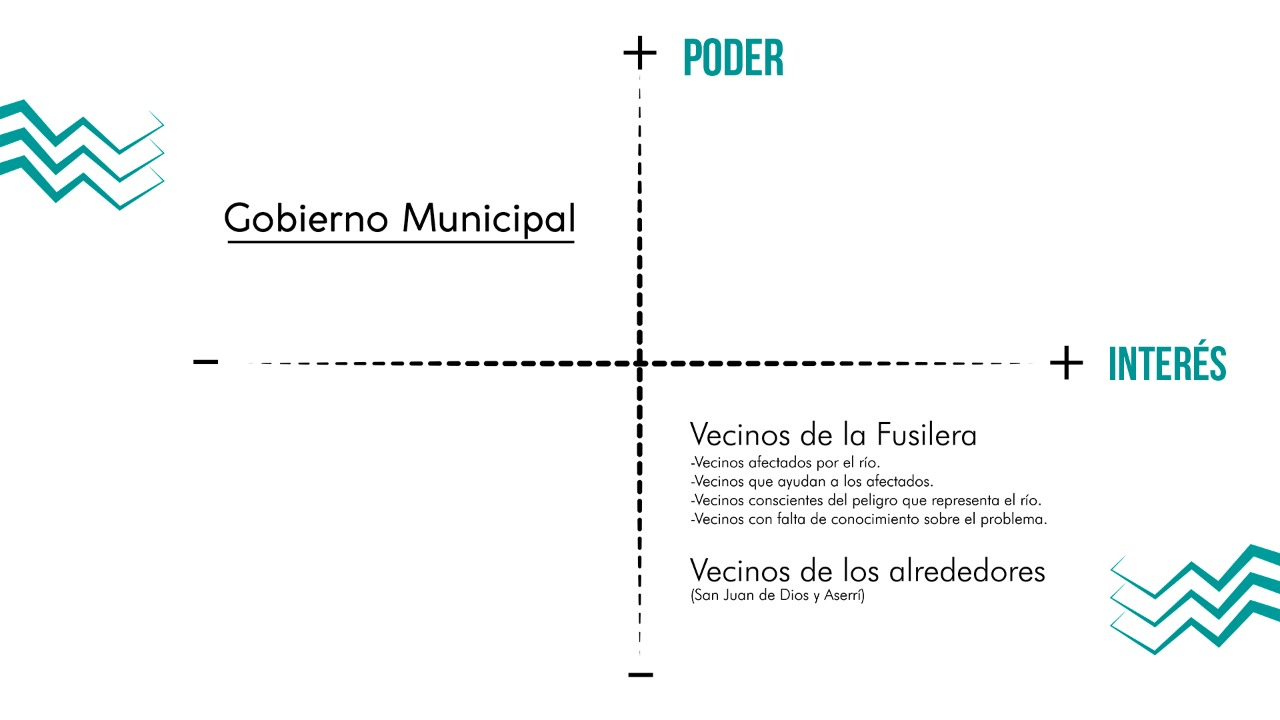
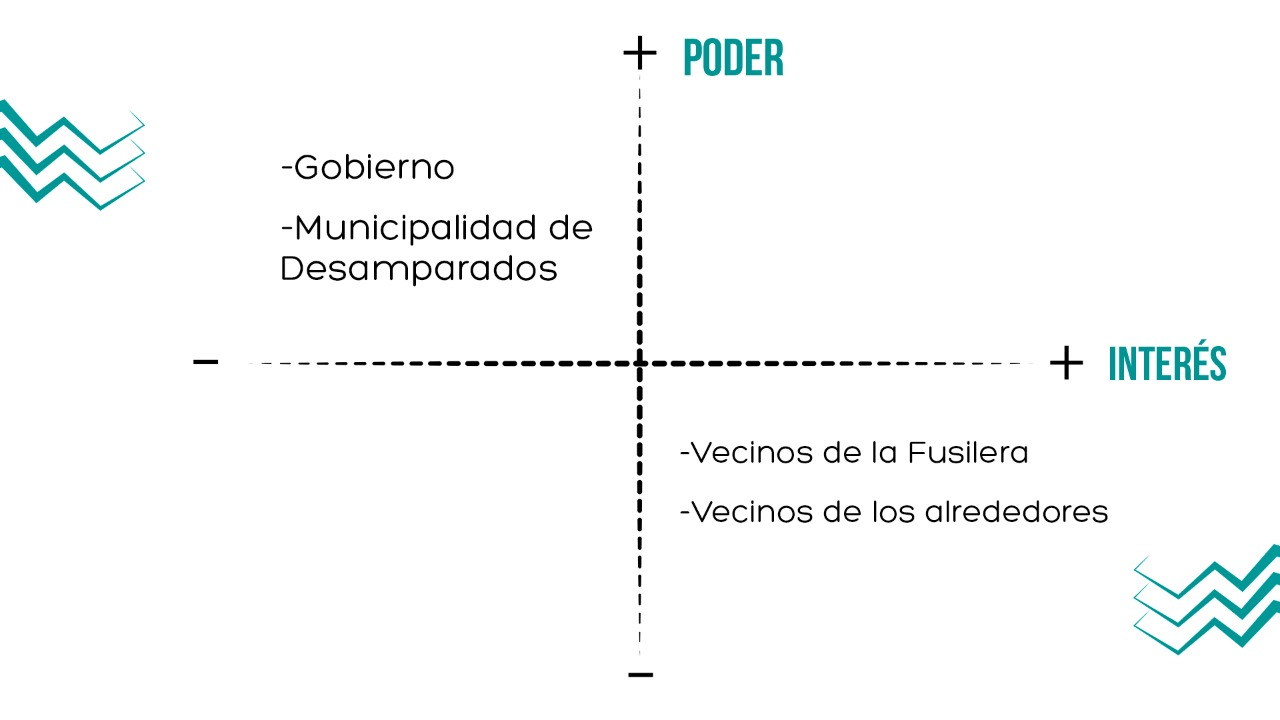
version 1.4

diff --git a/index.html b/index.html
@@ -122,8 +122,8 @@
 					<p class="post__text">Una vez que definimos el Persona Map, construimos el Mapa de Audiencia, que representa a los actores presentes en la problemática</p>
 	
 					<ul>
-						<li>En el cuadrante __________, tenemos a ________, que representa </li>
-						<li>En el cuadrante  __________, tenemos a  __________, que representa</li>
+						<li>En el cuadrante superior izquierdo, tenemos a el gobierno y la minicipalidad, que tienen el poder pero aunque parece que tienen interés no se ve demostrado, solo cuando se acercan las elecciones los candidatos o partidos politicos se acercan a estas zonas para llamar la atencion.</li>
+						<li>En el cuadrante inferior derecho, tenemos a  los vecinos de la Fusilera y a los vecinos de los alrededores que tienen tódo el interés pero no tienen el poder economico ni politico</li>
 					</ul>
 	
 				</div>
@@ -335,7 +335,7 @@
 
 		<!--project-->
 		<div class="project hide clearfix">
-
+			
 		</div>
 		<!--end project-->
 	</div>

diff --git a/sass/components/_menu.scss b/sass/components/_menu.scss
@@ -2,7 +2,7 @@
   display: flex;
   justify-content: center;
   box-shadow: 0px 0px 5px #002626;
-  background-color: #119995
+  background-color: #119995;
 }
 
 .menu__item {
@@ -13,7 +13,7 @@
   position: relative;
   text-align: center;
   &:hover {
-    background-color: #002626;
+    background-color: #01726F;
     transition: 1s;
   }
   a {

diff --git a/css/styles.css b/css/styles.css
@@ -69,7 +69,7 @@ ul {
   text-align: center;
 }
 .menu__item:hover {
-  background-color: #002626;
+  background-color: #01726F;
   transition: 1s;
 }
 .menu__item a {
